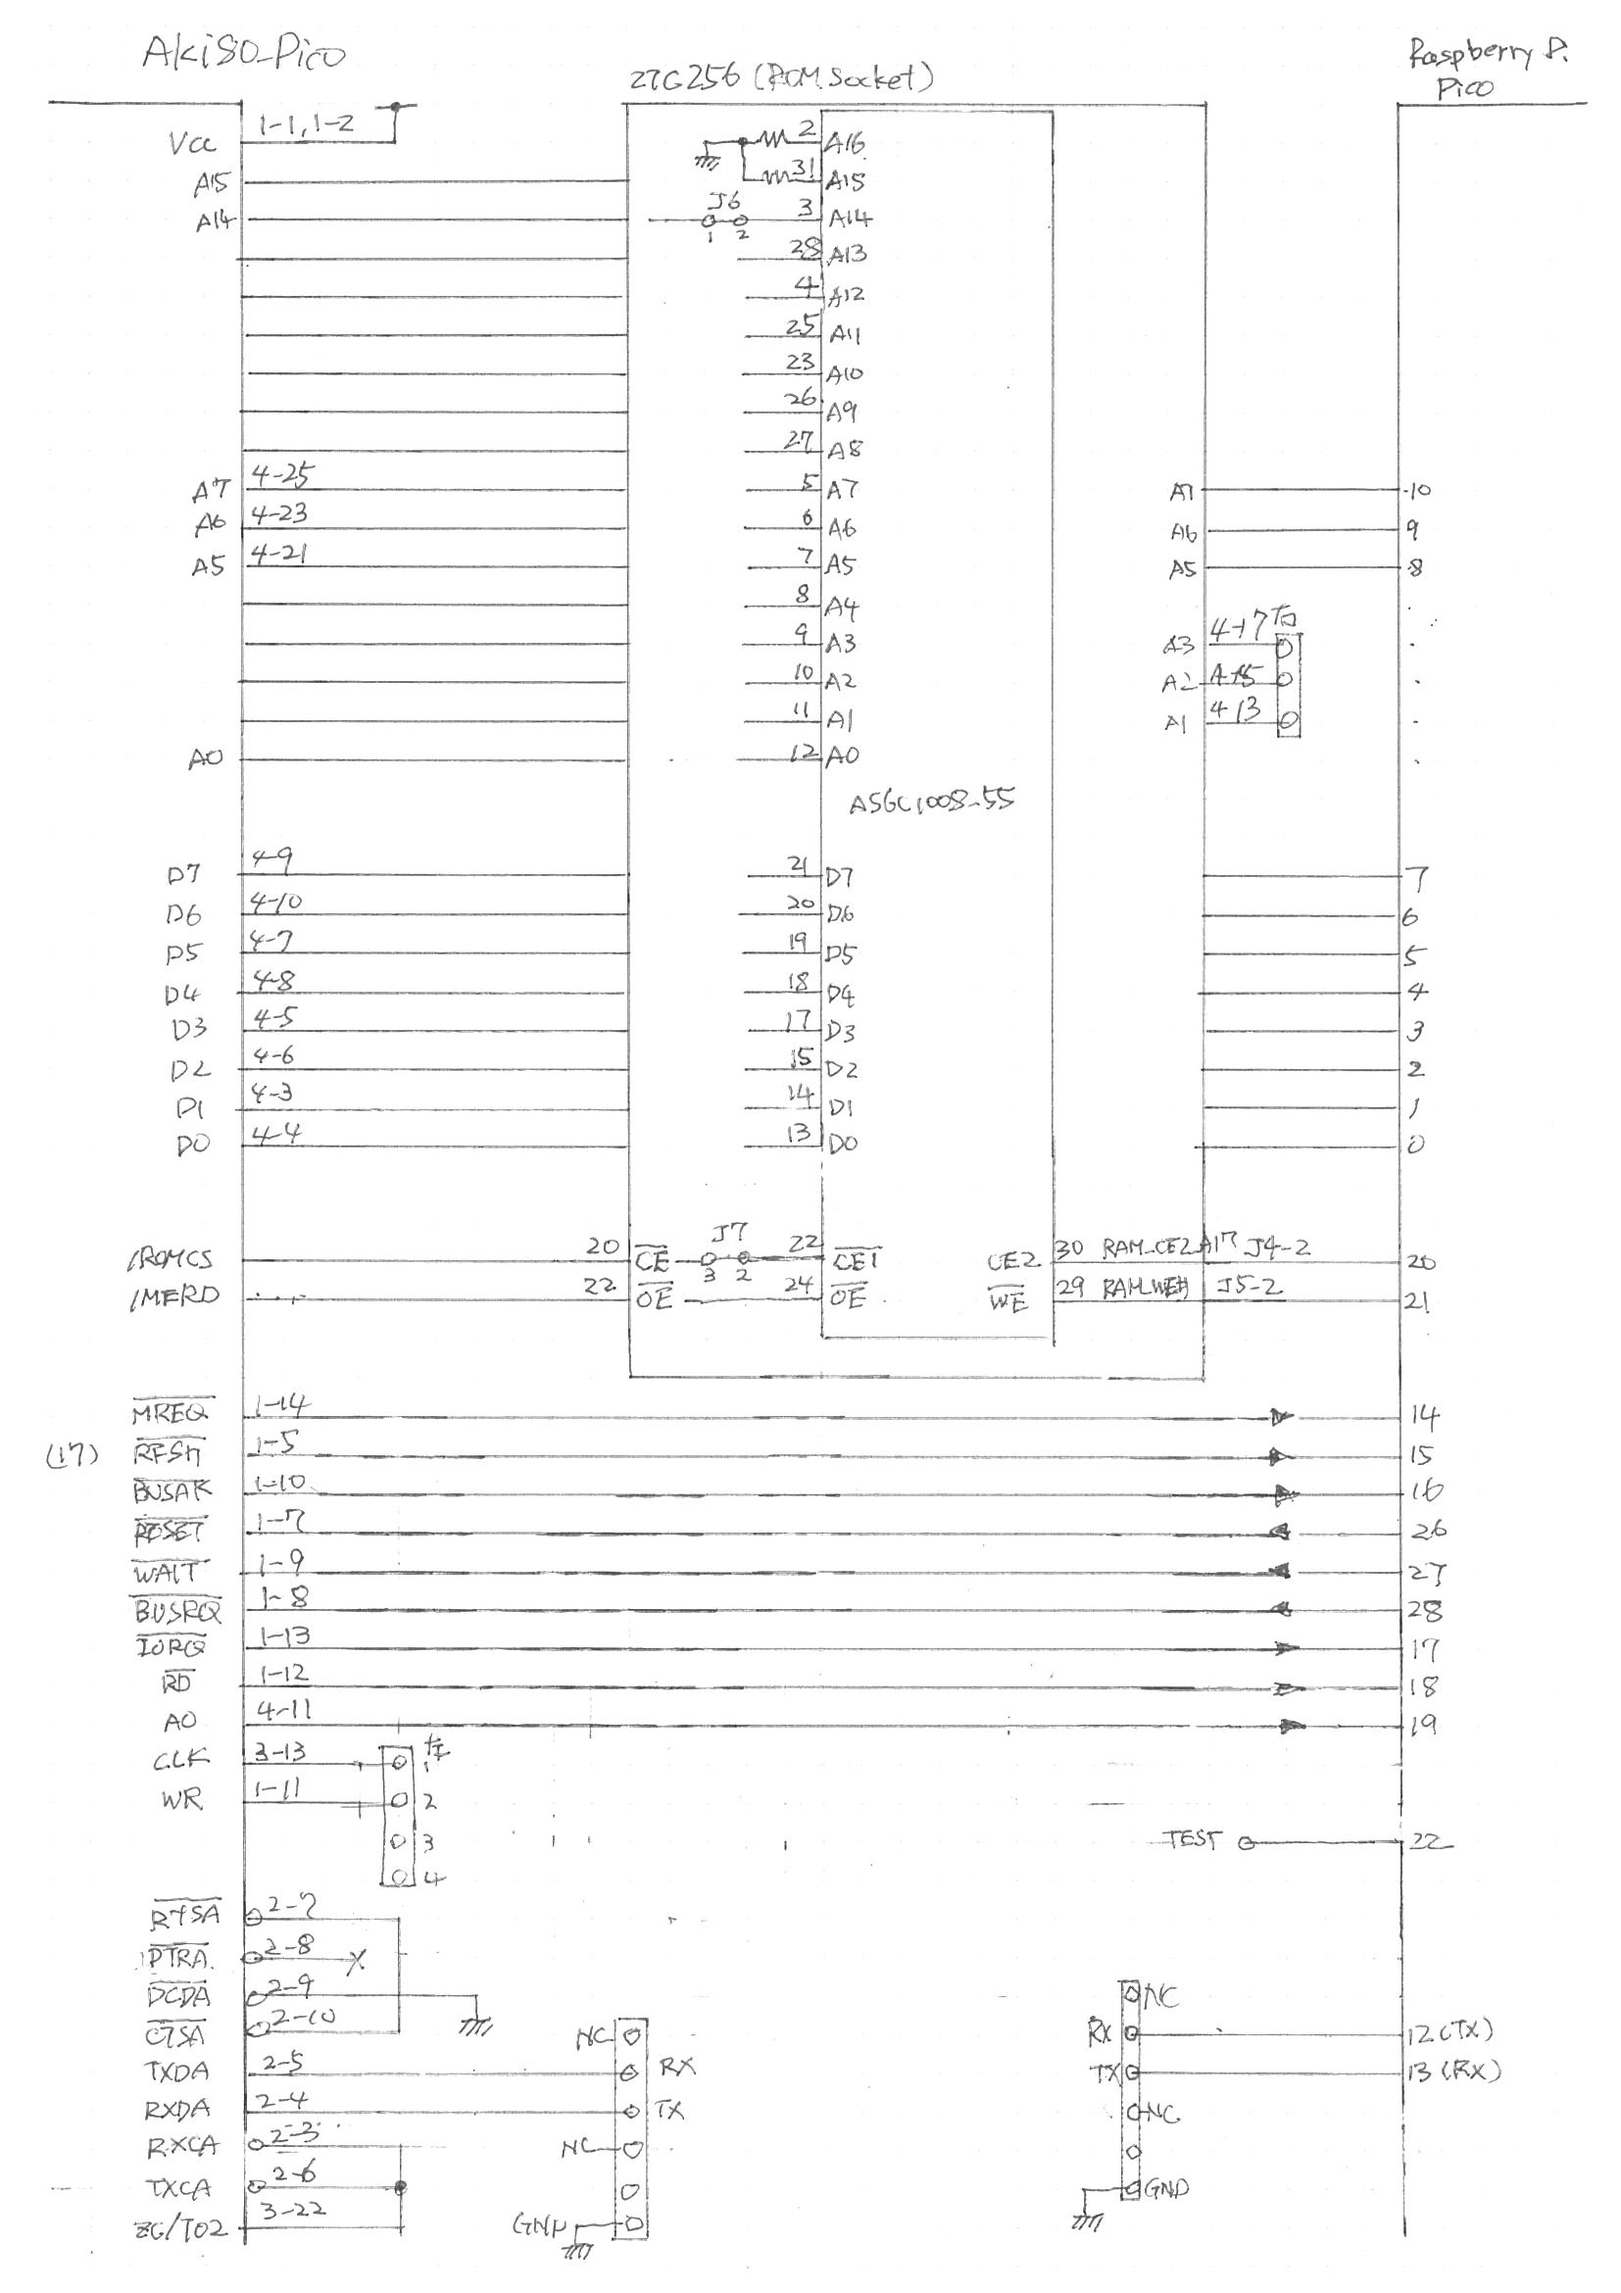
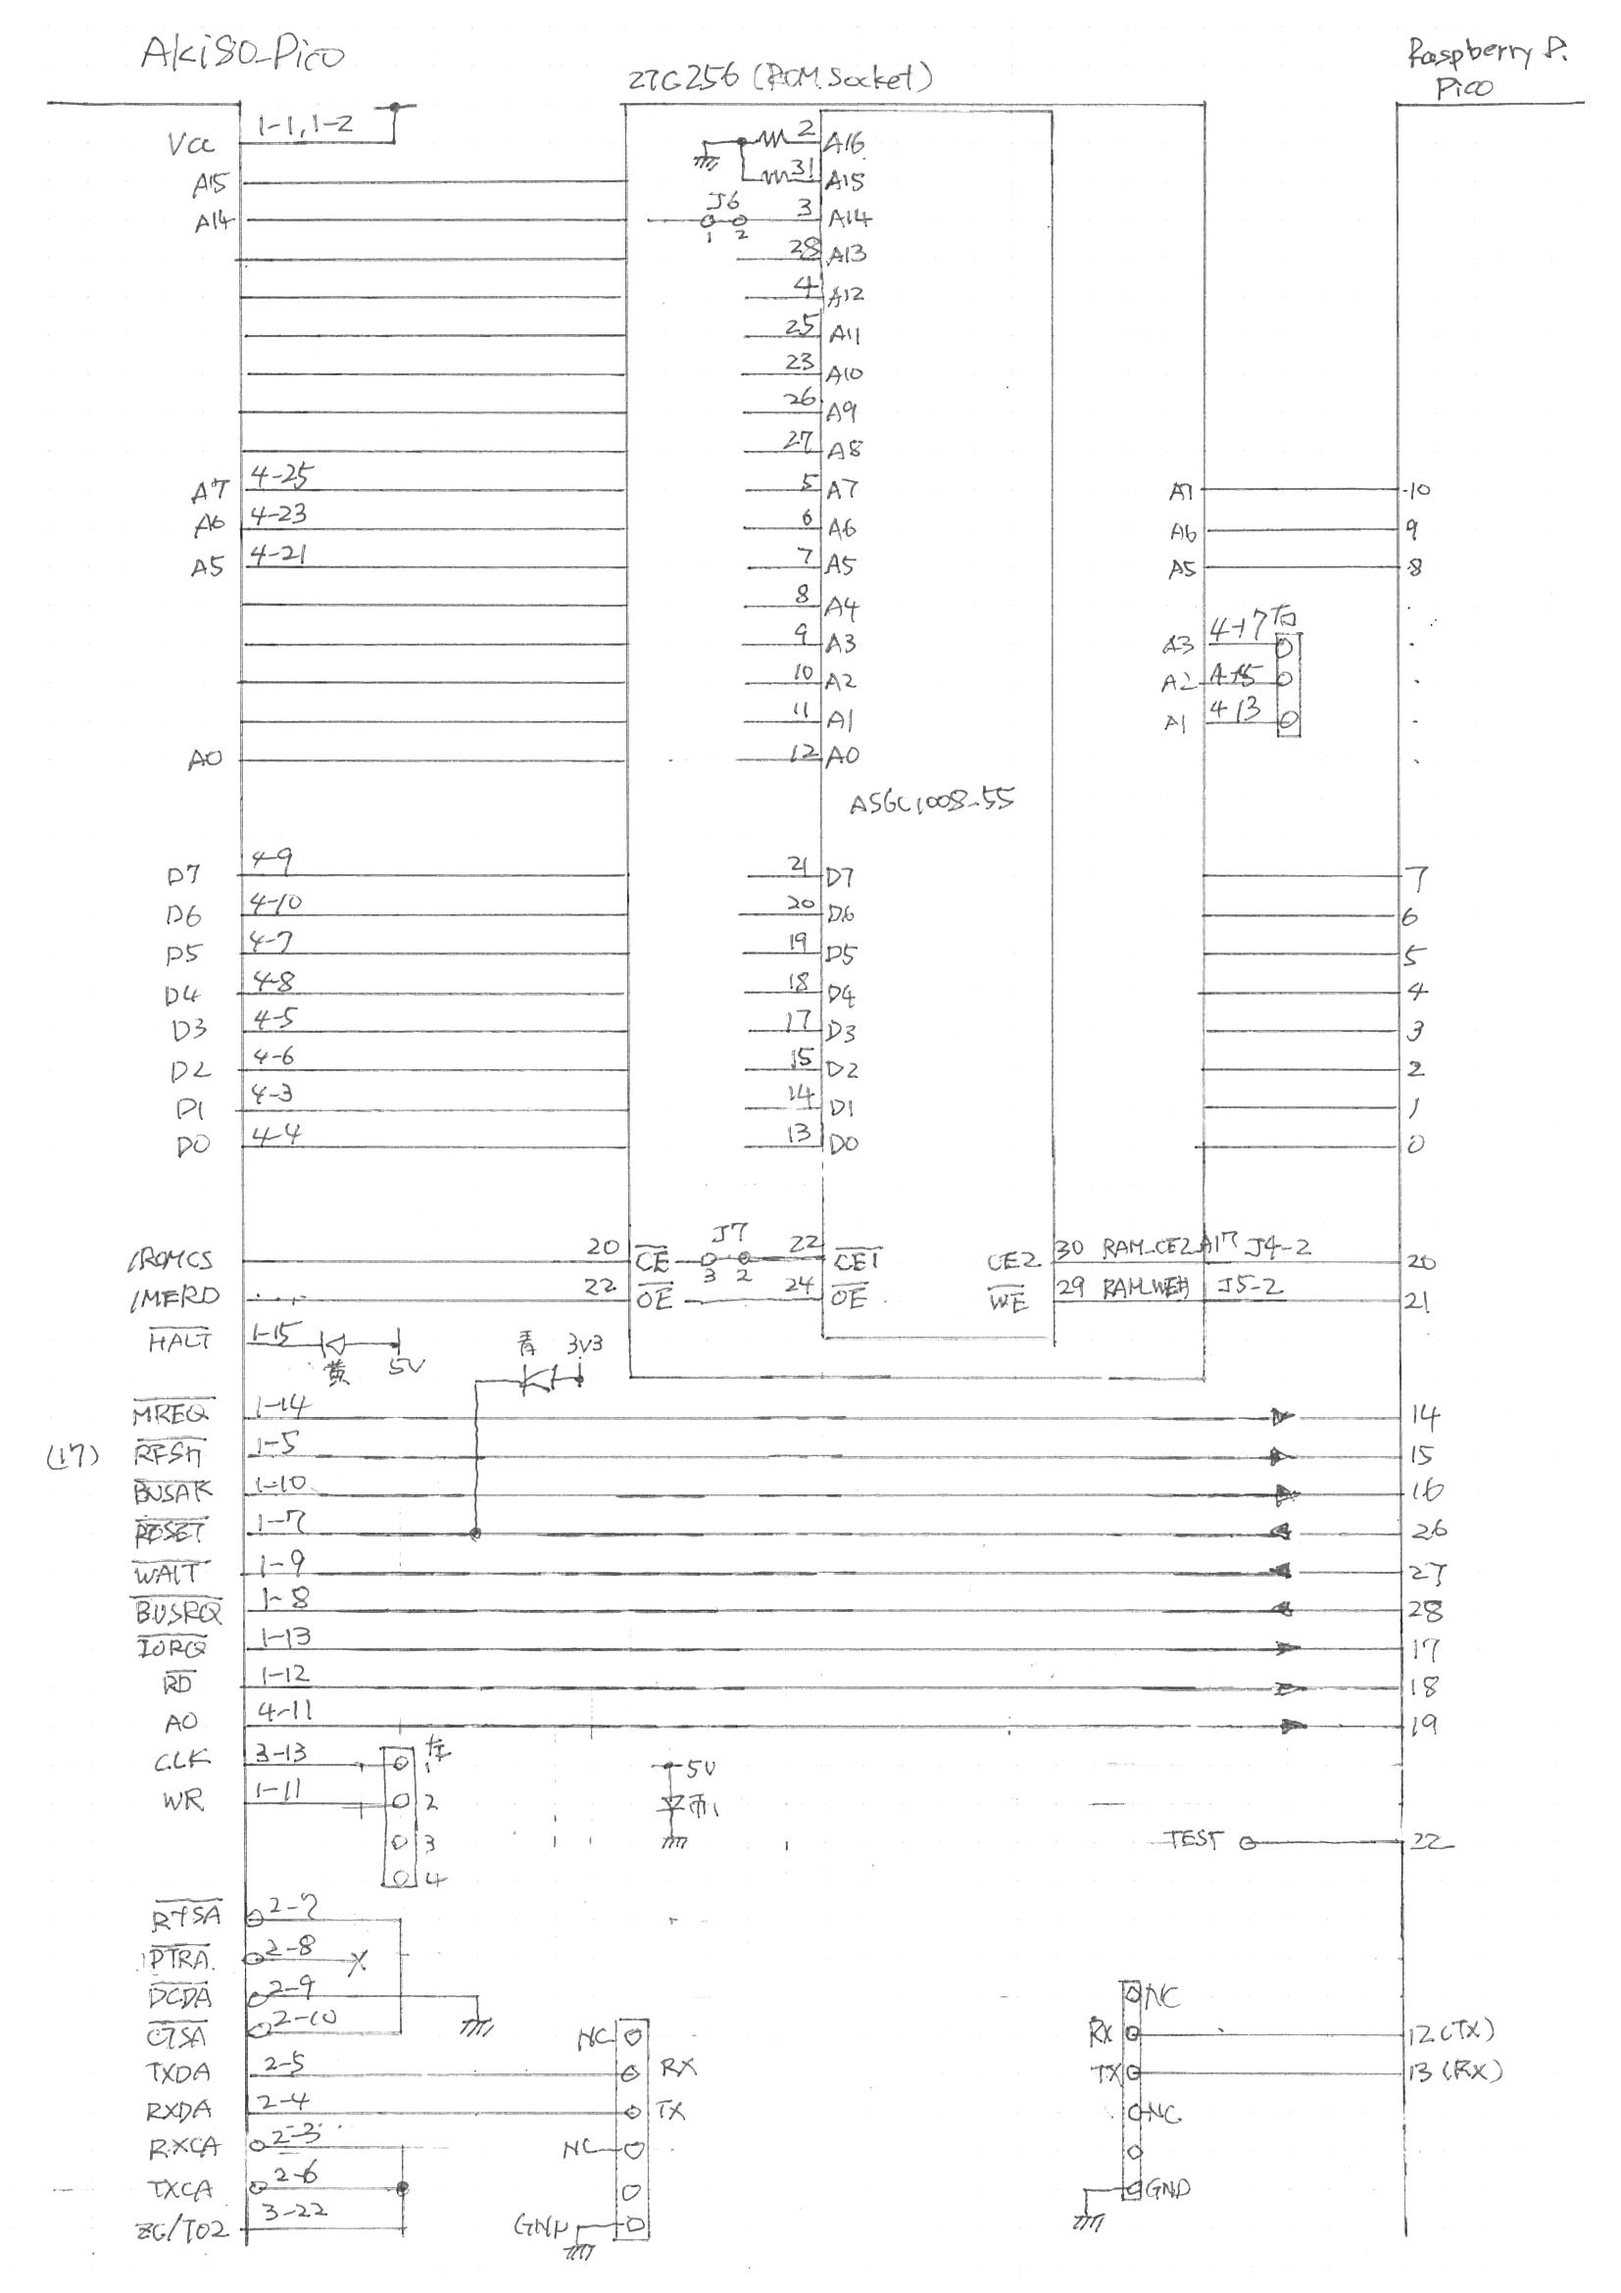
MEMO.md: add LED desc, schematic, and image

diff --git a/Aki80_Pico.c b/Aki80_Pico.c
@@ -131,6 +131,18 @@ void boot(uint16_t start, uint8_t *buf, int length)
 
 int main()
 {
+    // test pin, scratch its initial point
+    gpio_out_init(TEST_Pin, true);
+    TOGGLE();
+    TOGGLE();
+
+    // GPIO Out
+    gpio_out_init(WAIT_Pin, true);
+    gpio_out_init(RESET_Pin, false);
+    gpio_out_init(BUSRQ_Pin, true);
+    gpio_out_init(RAMCE2_Pin, false);
+    gpio_out_init(RAMWE_Pin, true);
+
     stdio_init_all();
     // Set up our UART
     uart_init(UART_ID, BAUD_RATE);
@@ -139,17 +151,6 @@ int main()
     gpio_set_function(UART_TX_PIN, GPIO_FUNC_UART);
     gpio_set_function(UART_RX_PIN, GPIO_FUNC_UART);
 
-    // GPIO Out
-    gpio_out_init(WAIT_Pin, true);
-    gpio_out_init(RESET_Pin, false);
-    gpio_out_init(BUSRQ_Pin, true);
-    //gpio_out_init(INT_Pin, false);      // INT Pin has an inverter, so negate signal is needed
-    gpio_out_init(OE_Pin, true);
-    gpio_out_init(WE_Pin, true);
-
-    gpio_out_init(TEST_Pin, true);
-    TOGGLE();
-    TOGGLE();
     //TOGGLE();
 
     // GPIO In
@@ -179,7 +180,7 @@ int main()
     // Send out a string, with CR/LF conversions
     uart_puts(UART_ID, " Hello, UART!\r\n");
 
-    // test program
+    // test program 1: Z80 Free Run
     // start CPU and examine signal transition
     gpio_put(WAIT_Pin, true);
     gpio_put(RESET_Pin, true);
